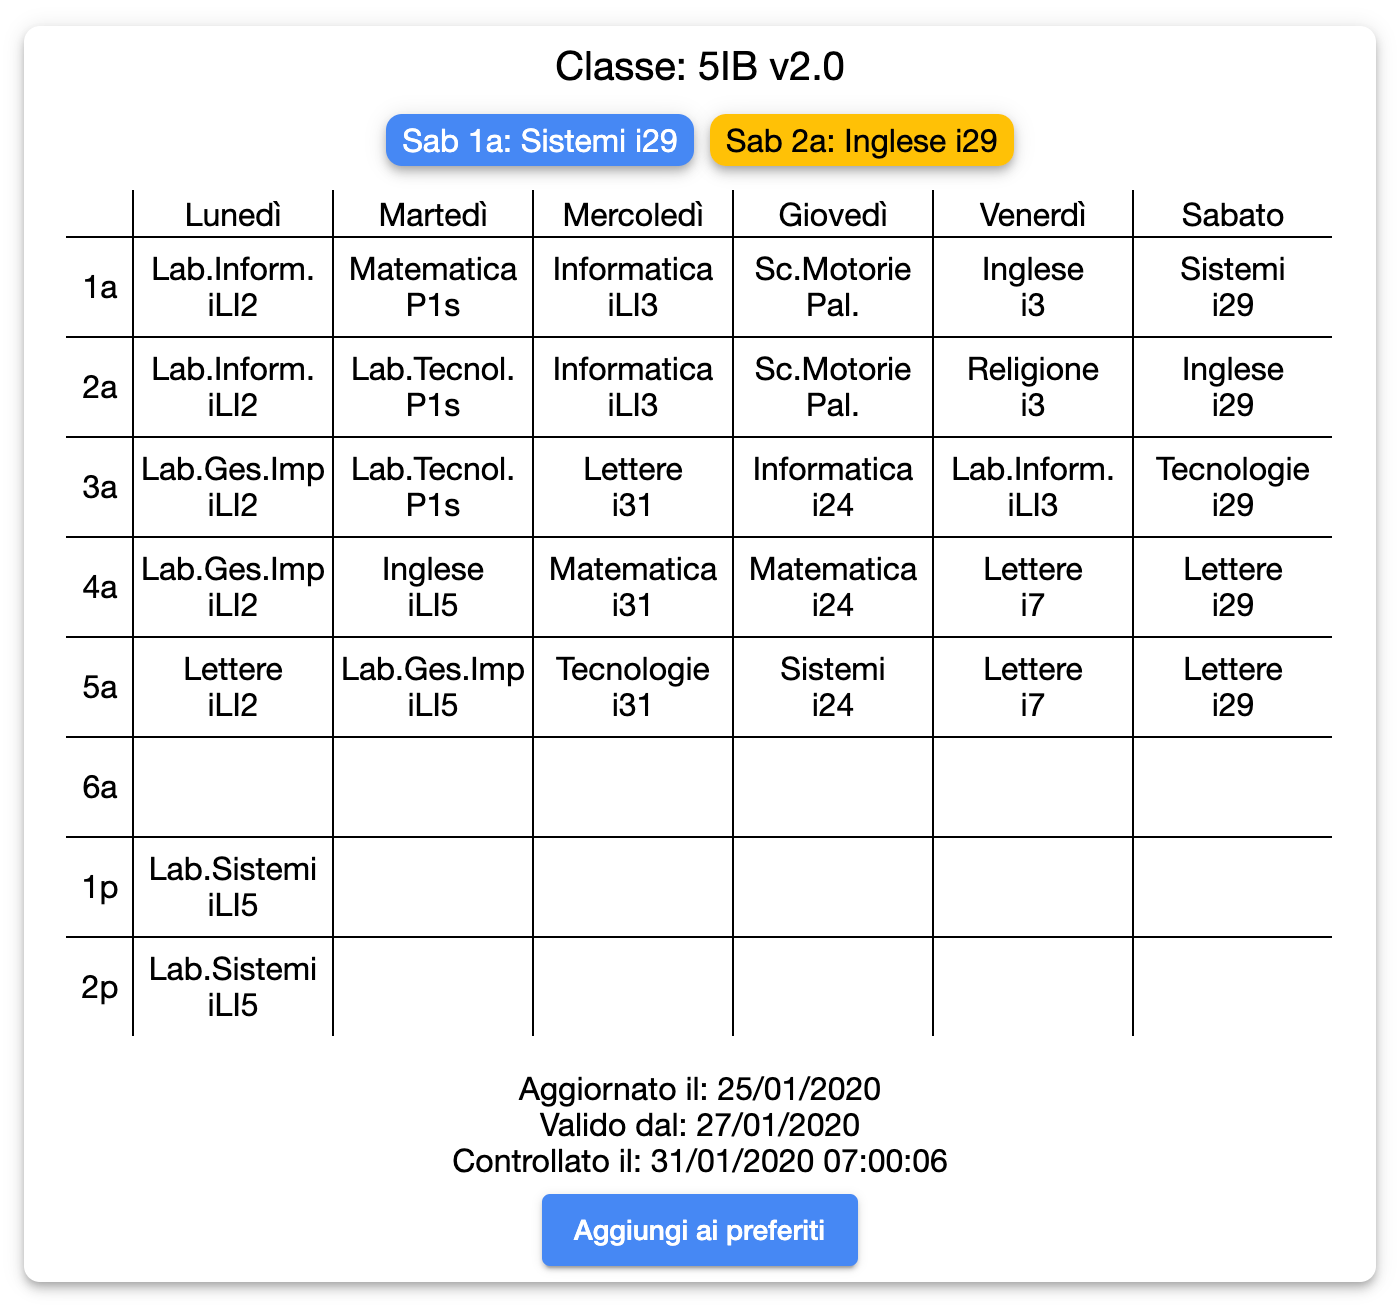
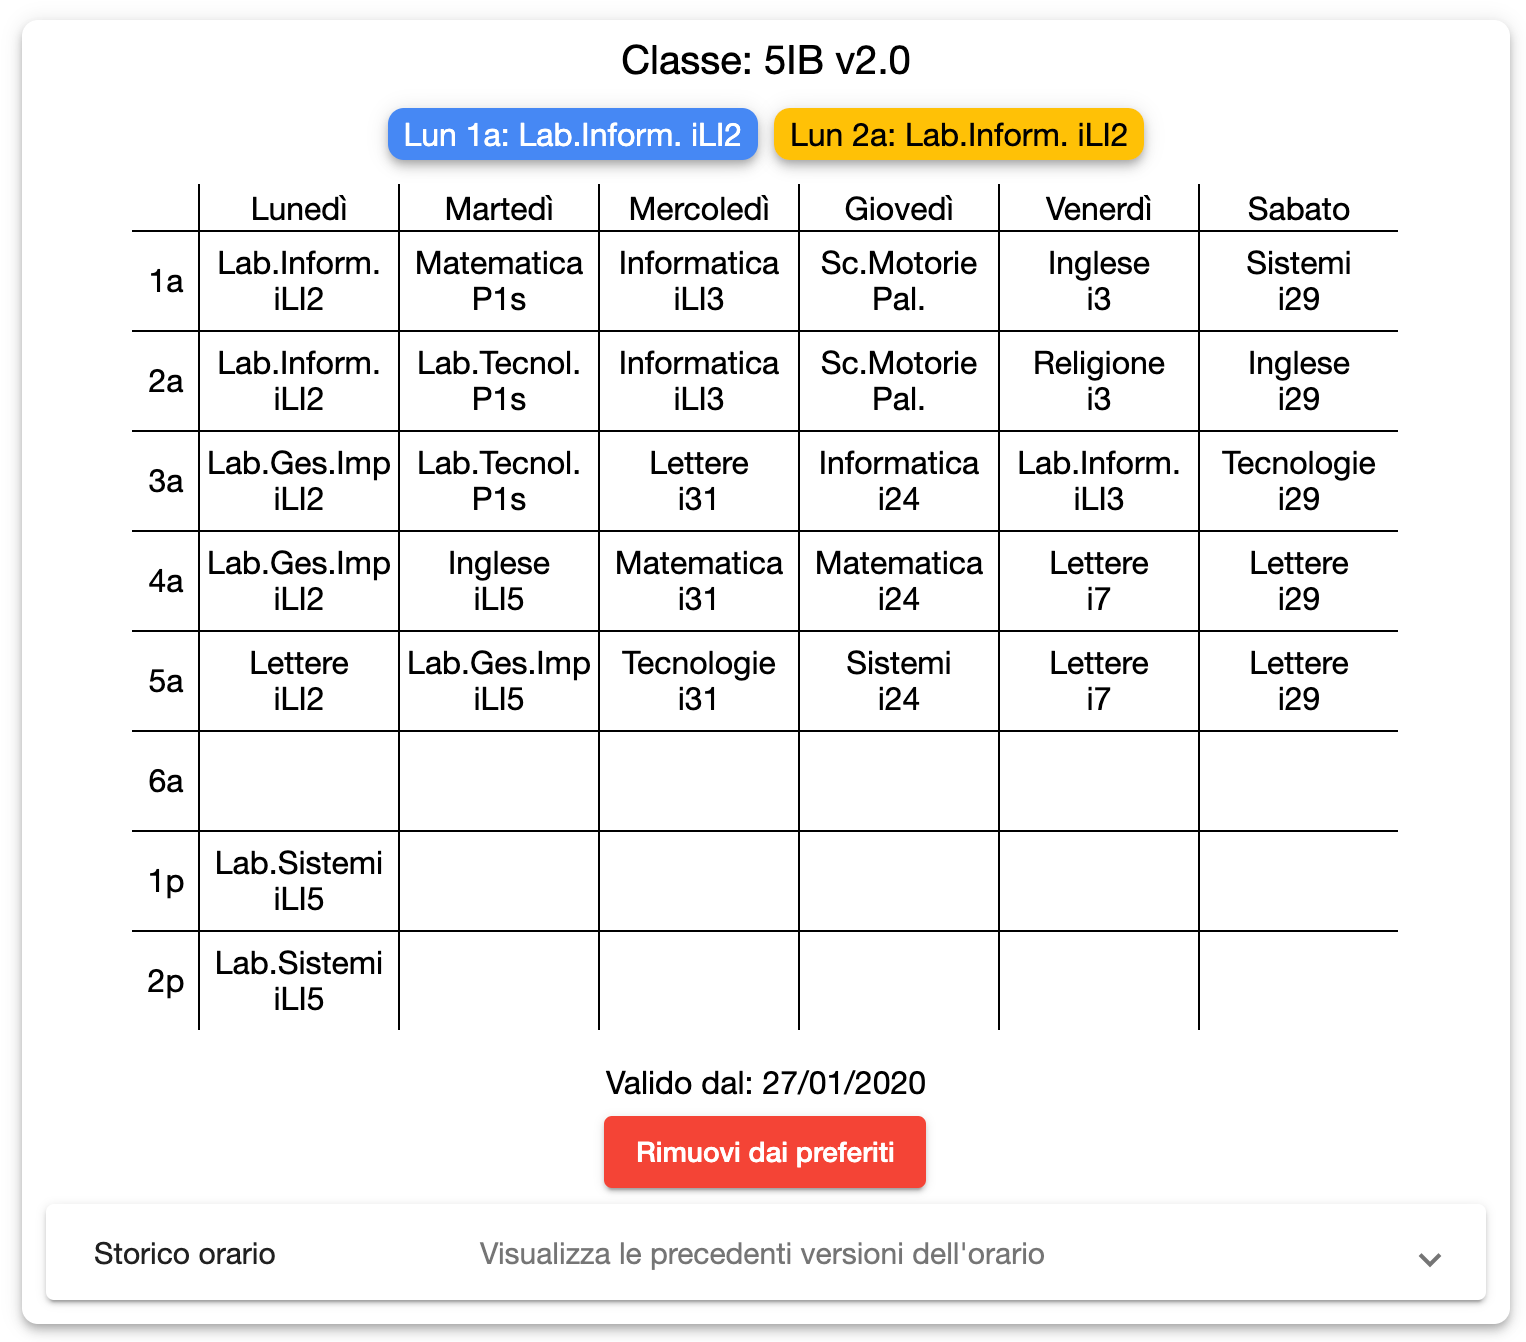
Aggiornato il readme del sito web

diff --git a/sitoweb/README.md b/sitoweb/README.md
@@ -26,7 +26,7 @@ La pagina ricerca viene visualizzata quando si inserisce un termine di ricerca n
 
 ### Orario
 
-Qui viene visualizzato tutto un singolo orario. Vengono proposti i prossimi due impegni, il grafico dell'orario e alcune sue informazioni (versione, data di aggiornamento, validità) insieme a due bottoni, uno per aggiungere l'orario come preferito e uno per condividerlo (visualizzato solo su mobile)
+Qui viene visualizzato tutto un singolo orario. Vengono proposti i prossimi due impegni, il grafico dell'orario e alcune sue informazioni (versione, data di aggiornamento, validità) insieme a due bottoni, uno per aggiungere l'orario come preferito e uno per condividerlo (visualizzato solo su mobile) e un menù per visualizzare le versioni precedenti dell'orario (sostituisce i dati mostrati nella tabella e viene mostrato un messaggio di avviso grigio)
 
 ![Navbar chiusa](./readme_screenshots/orario.png)
 
